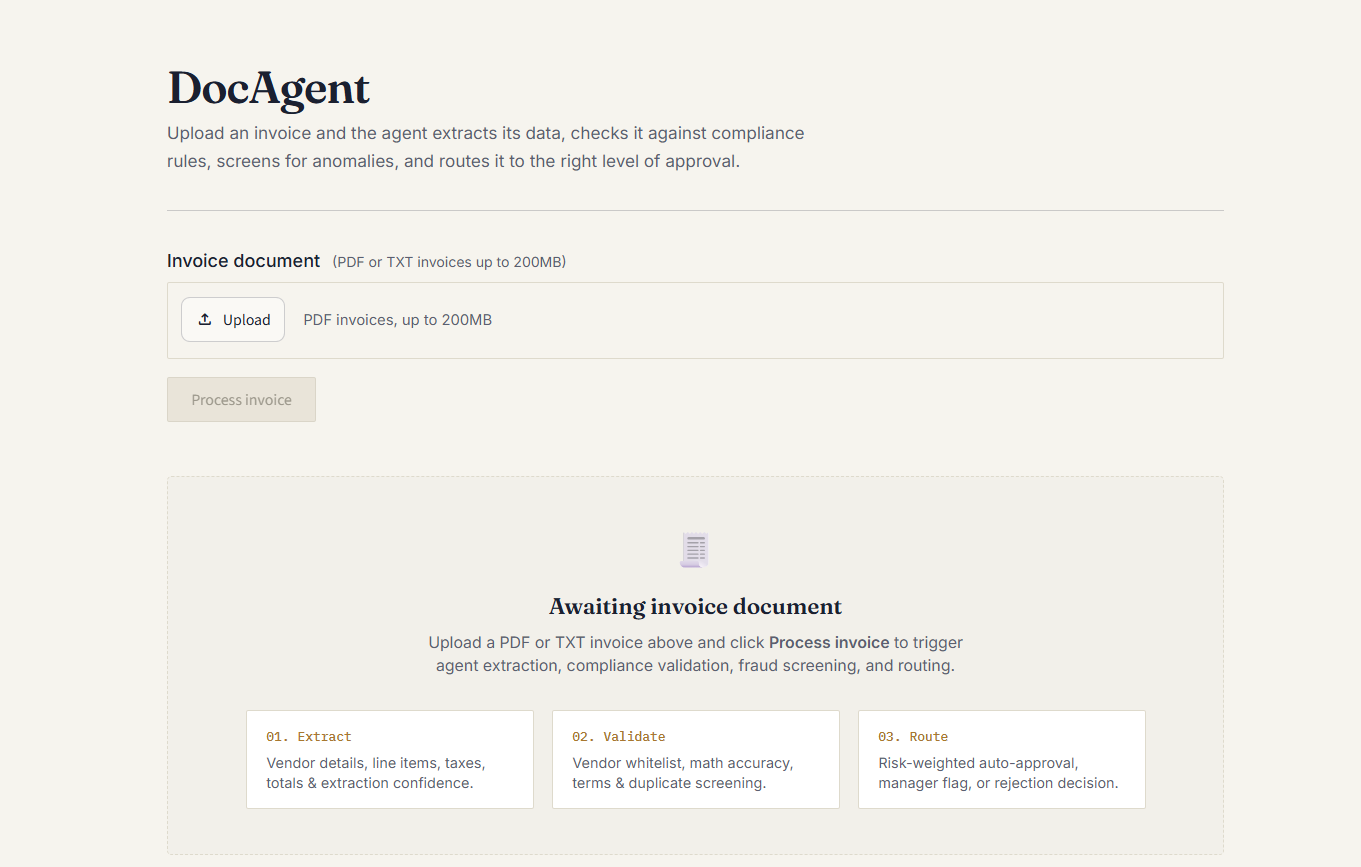
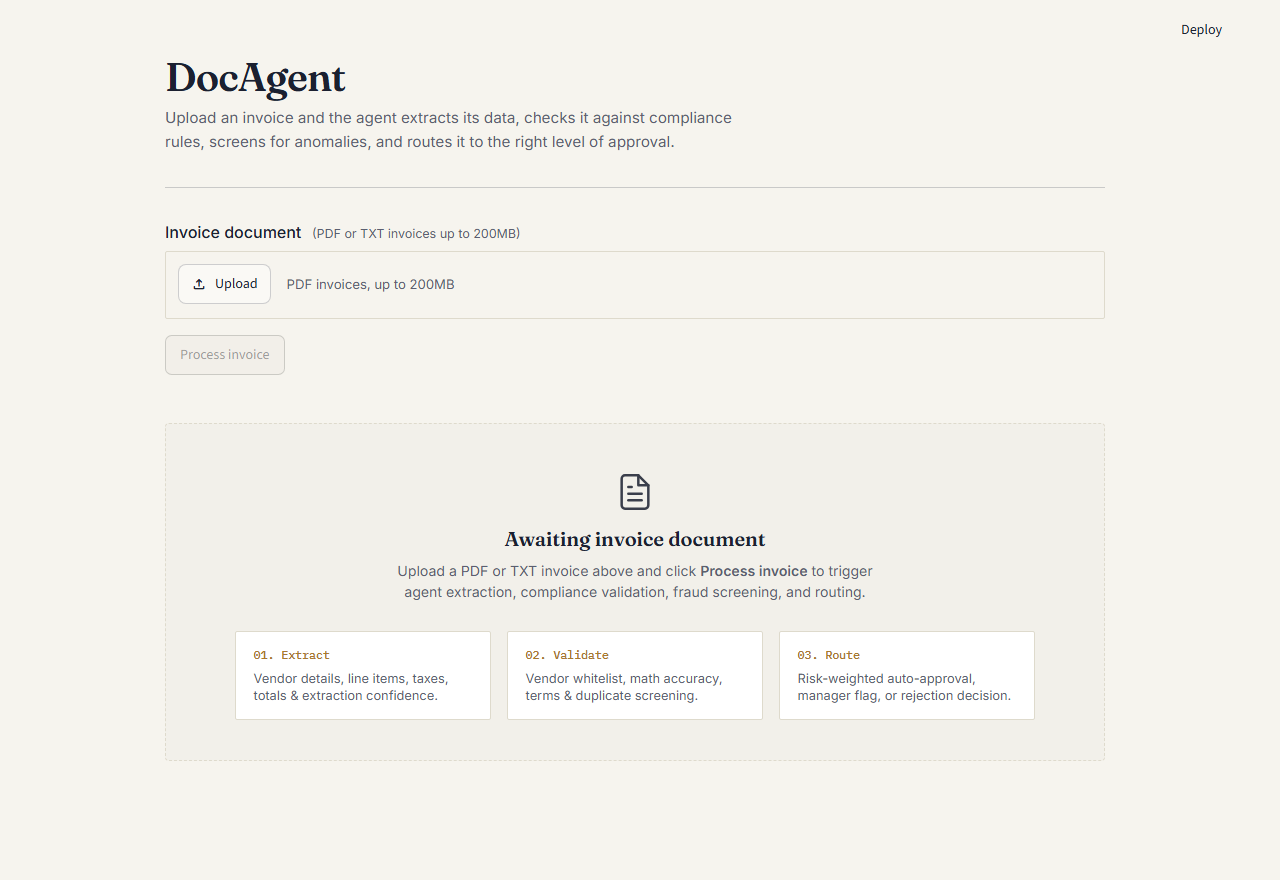
docs: update UI screenshots and audit trail display with dual-reader verification badges

diff --git a/ui/app.py b/ui/app.py
@@ -438,6 +438,16 @@ st.markdown(
 uploaded_file = st.file_uploader(" ", type=["pdf", "txt"], label_visibility="collapsed")
 process_clicked = st.button("Process invoice", type="primary", disabled=uploaded_file is None)
 
+# Auto-load demo sample if ?demo=1 query parameter is set
+if "result" not in st.session_state and st.query_params.get("demo"):
+    demo_file = os.path.join("data", "demo_sample_result.json")
+    if os.path.exists(demo_file):
+        try:
+            with open(demo_file, "r", encoding="utf-8") as f:
+                st.session_state.result = json.load(f)
+        except Exception:
+            pass
+
 # ----------------------------------------------------------------------------
 # Processing / Results / Empty State
 # ----------------------------------------------------------------------------
@@ -536,19 +546,23 @@ if "result" in st.session_state:
     # ---------------- Extracted data ----------------
     with col1:
         st.markdown('<p class="section-title">Extracted data</p>', unsafe_allow_html=True)
-        invoice_data = result.get("invoice")
+        invoice_data = result.get("invoice") or result.get("extracted_data")
 
         if invoice_data:
             currency = invoice_data.get("currency", "USD")
             confidence = invoice_data.get("confidence_score")
+            verif = (result.get("verification_level") or "none").upper()
+            verif_color = "#33604A" if verif == "FULL" else ("#B5751D" if verif == "PARTIAL" else "#9C3B2C")
+
+            tags_html = ""
             if confidence is not None:
                 try:
-                    st.markdown(
-                        f'<span class="confidence-tag">{float(confidence):.0%} extraction confidence</span>',
-                        unsafe_allow_html=True,
-                    )
+                    tags_html += f'<span class="confidence-tag">{float(confidence):.0%} extraction confidence</span> '
                 except (TypeError, ValueError):
                     pass
+            tags_html += f'<span style="background:{verif_color}18; color:{verif_color}; border:1px solid {verif_color}44; padding:3px 9px; border-radius:3px; font-size:0.78rem; font-weight:600;">Dual-Reader: {verif}</span>'
+            
+            st.markdown(tags_html, unsafe_allow_html=True)
 
             header_fields = [
                 ("Vendor", invoice_data.get("vendor_name")),
@@ -653,7 +667,7 @@ if "result" in st.session_state:
             if failed_count > 0:
                 issue_label = "issue needs" if failed_count == 1 else "issues need"
                 st.markdown(
-                    f'<div class="compliance-alert fail">⚠ {failed_count} {issue_label} review</div>',
+                    f'<div class="compliance-alert fail">! {failed_count} {issue_label} review</div>',
                     unsafe_allow_html=True,
                 )
             else:
@@ -700,7 +714,8 @@ if "result" in st.session_state:
     # ---------------- Audit trail ----------------
     st.markdown('<p class="section-title" style="margin-top:2rem;">Agent audit trail</p>', unsafe_allow_html=True)
     audit_trail = result.get("audit_trail", [])
-    with st.expander("Show step-by-step log", expanded=False):
+    expanded_audit = bool(st.query_params.get("expand_audit", False))
+    with st.expander("Show step-by-step log", expanded=expanded_audit):
         if not audit_trail:
             st.markdown(
                 '<p style="color: var(--ink-soft); font-family: Inter, sans-serif; font-size: 0.85rem;">'
@@ -714,10 +729,12 @@ if "result" in st.session_state:
                 ts = (entry.get("timestamp") or "")[:19].replace("T", " ")
                 is_terminal = (idx == total_entries - 1) and status == "completed" and entry.get("step") in ["decision", "report_generated"]
                 terminal_class = "terminal" if is_terminal else ""
+                entry_hash = entry.get("entry_hash", "")
+                hash_badge = f'<span style="font-family:monospace; font-size:0.70rem; color:var(--ink-soft); margin-left:8px;" title="SHA-256: {entry_hash}">[Hash: {entry_hash[:8]}...]</span>' if entry_hash else ""
                 items_html += (
                     f'<div class="timeline-item {terminal_class}">'
                     f'<div class="timeline-ts">{esc(ts)}</div>'
-                    f'<div class="timeline-step">{esc(step_label(entry.get("step", "")))}</div>'
+                    f'<div class="timeline-step">{esc(step_label(entry.get("step", "")))} {hash_badge}</div>'
                     f'<div class="timeline-detail">{esc(entry.get("detail", ""))}</div>'
                     "</div>"
                 )
@@ -730,7 +747,15 @@ else:
     st.markdown(
         """
         <div class="empty-state">
-            <div class="empty-icon">🧾</div>
+            <div class="empty-icon">
+                <svg width="40" height="40" viewBox="0 0 24 24" fill="none" stroke="currentColor" stroke-width="1.5" stroke-linecap="round" stroke-linejoin="round">
+                    <path d="M14 2H6a2 2 0 0 0-2 2v16a2 2 0 0 0 2 2h12a2 2 0 0 0 2-2V8z"></path>
+                    <polyline points="14 2 14 8 20 8"></polyline>
+                    <line x1="16" y1="13" x2="8" y2="13"></line>
+                    <line x1="16" y1="17" x2="8" y2="17"></line>
+                    <line x1="10" y1="9" x2="8" y2="9"></line>
+                </svg>
+            </div>
             <div class="empty-title">Awaiting invoice document</div>
             <div class="empty-subtitle">Upload a PDF or TXT invoice above and click <strong>Process invoice</strong> to trigger agent extraction, compliance validation, fraud screening, and routing.</div>
             <div class="empty-preview-grid">

diff --git a/api/main.py b/api/main.py
@@ -87,10 +87,29 @@ async def process_invoice(
             "document_bytes": content,
             "mime_type": mime_type,
             "document_path": file.filename,
+            "file_hash": None,
+            "is_hash_blocked": False,
+            "supersedes_id": None,
+            "tampering_detected": False,
+            "tampering_reasons": [],
+            "text_quality_score": 1.0,
+            "extracted_data": None,
+            "reader_b_data": None,
+            "reader_disagreements": [],
+            "verification_level": "none",
+            "extraction_confidence": 0.0,
             "validation_results": [],
             "anomalies": [],
-            "extraction_error": None,
+            "is_duplicate": False,
+            "is_near_duplicate": False,
+            "risk_score": 0.0,
+            "decision": "pending",
+            "decision_reasoning": "",
+            "approval_level": "auto",
+            "human_verified": False,
+            "reentry_count": 0,
             "extraction_retries": 0,
+            "extraction_error": None,
             "audit_trail": [],
             "messages": [],
         }, config=config)
@@ -109,14 +128,19 @@ async def process_invoice(
         "thread_id": file.filename,
         "filename": file.filename,
         "extracted_data": result.get("extracted_data"),
+        "invoice": result.get("extracted_data"),
         "decision": result.get("decision", "flag_review" if is_paused else "unknown"),
         "approval_level": result.get("approval_level", "unknown"),
         "risk_score": result.get("risk_score", 0.0),
         "decision_reasoning": result.get("decision_reasoning", ""),
+        "reasoning": result.get("decision_reasoning", ""),
+        "verification_level": result.get("verification_level", "none"),
+        "file_hash": result.get("file_hash"),
         "anomalies": result.get("anomalies", []),
         "validation_results": result.get("validation_results", []),
         "audit_trail": result.get("audit_trail", []),
         "is_duplicate": result.get("is_duplicate", False),
+        "is_near_duplicate": result.get("is_near_duplicate", False),
     }
 
     # Persist to database

diff --git a/scripts/capture_ui_screenshots.py b/scripts/capture_ui_screenshots.py
@@ -1,0 +1,55 @@
+import subprocess
+import os
+import time
+
+edge_path = r"C:\Program Files (x86)\Microsoft\Edge\Application\msedge.exe"
+base_dir = os.path.dirname(os.path.dirname(os.path.abspath(__file__)))
+images_dir = os.path.join(base_dir, "images")
+
+targets = [
+    {
+        "name": "image1.png",
+        "url": "http://127.0.0.1:8501",
+        "window": "1280,880",
+        "budget": 6000,
+        "desc": "Upload Dashboard",
+    },
+    {
+        "name": "image2.png",
+        "url": "http://127.0.0.1:8501?demo=1",
+        "window": "1280,1050",
+        "budget": 6000,
+        "desc": "Extraction & Compliance",
+    },
+    {
+        "name": "image3.png",
+        "url": "http://127.0.0.1:8501?demo=1&expand_audit=1",
+        "window": "1280,2550",
+        "budget": 8000,
+        "desc": "Agent Audit Trail",
+    },
+]
+
+for t in targets:
+    out_path = os.path.join(images_dir, t["name"])
+    print(f"[+] Capturing {t['desc']} -> {t['name']} (Window: {t['window']})...")
+    tmp_user_data = os.path.join(base_dir, ".temp_edge_profile")
+    cmd = [
+        edge_path,
+        "--headless=new",
+        "--disable-gpu",
+        f"--user-data-dir={tmp_user_data}",
+        f"--virtual-time-budget={t['budget']}",
+        f"--window-size={t['window']}",
+        f"--screenshot={out_path}",
+        t["url"],
+    ]
+    res = subprocess.run(cmd, capture_output=True, text=True, timeout=25)
+    time.sleep(1)
+    if os.path.exists(out_path):
+        size = os.path.getsize(out_path)
+        print(f"    Saved: {out_path} ({size:,} bytes)")
+    else:
+        print(f"    [X] Failed to capture {t['name']}")
+
+print("\n[+] All UI screenshots updated successfully!")
